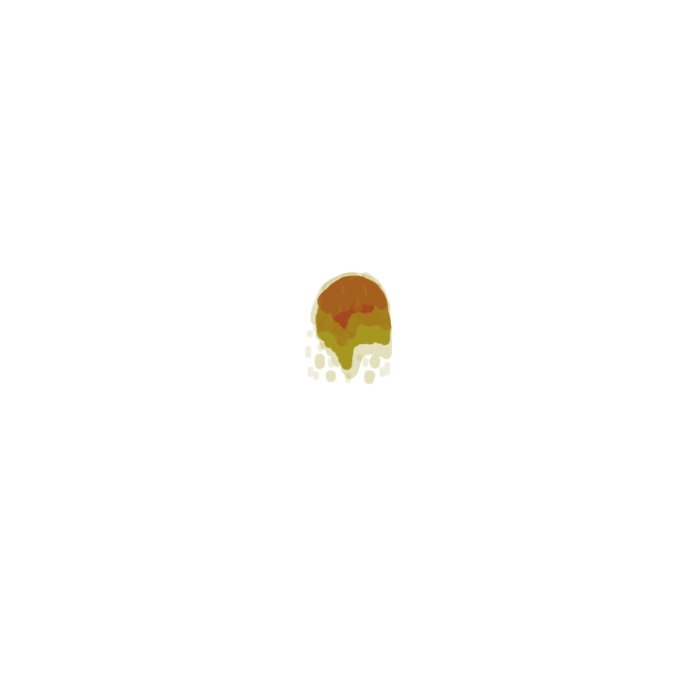
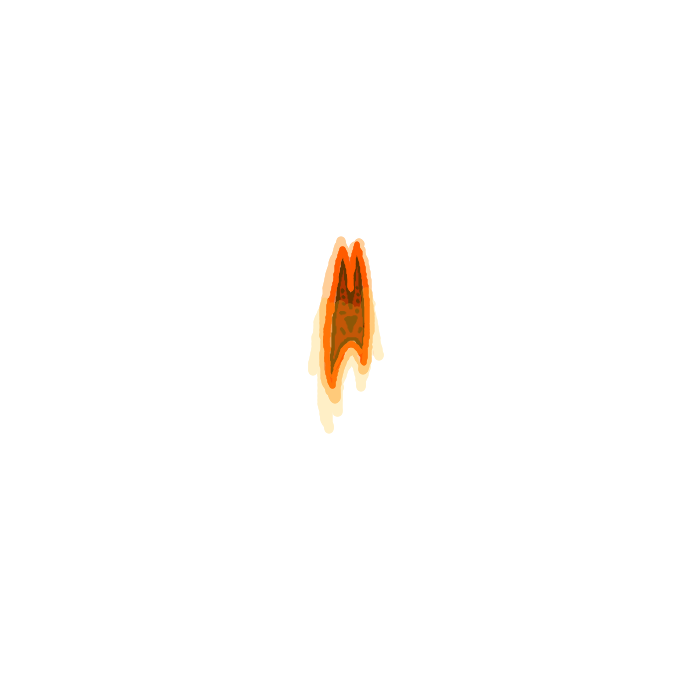
buff and new design

Changed region(s): [[0.42, 0.33, 0.57, 0.63]]

diff --git a/lib/monsters/zombie.py b/lib/monsters/zombie.py
@@ -104,7 +104,7 @@ class Zombie(DefaultMonster):
                 if randint(0, 5):
                     self.inflamed = 7
             if not self.inflamed % 7:
-                self.lives -= 1
+                self.lives -= 2
                 self.injured += 3
         if self.lives and self.poisoned:
             self.poisoned -= 1

diff --git a/lib/monsters/default.py b/lib/monsters/default.py
@@ -183,7 +183,7 @@ class DefaultMonster:
                 if randint(0, 6):
                     self.inflamed = 12
             if not self.inflamed % 12:
-                self.lives -= 1
+                self.lives -= 2
                 self.injured += 6
         if self.lives and self.poisoned:
             self.poisoned -= 1
